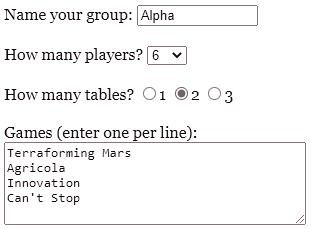
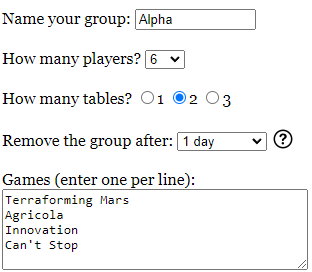
Make session duration configurable

diff --git a/html/ggo/game_ranker.css b/html/ggo/game_ranker.css
@@ -92,3 +92,18 @@ img.demo {
     margin-left: 10px;
     padding: 5px;
 }
+
+.hoverhelp {
+    position: relative;
+}
+.onhoverhelp {
+    visibility: hidden;
+    position: absolute;
+    background-color: #f0f7fb;
+    width: 180px;
+    padding: 5px;
+    z-index: 1;
+}
+.hoverhelp:hover .onhoverhelp {
+    visibility: visible;
+}

diff --git a/html/ggo/utils.php b/html/ggo/utils.php
@@ -1,9 +1,6 @@
 <?
     $MAX_RANK = 100;
     
-    // Do not fetch any sessions older than this. Do allow duplicate names after this interval.
-    $MAX_SESSION_AGE_IN_SECONDS = 30 * 60;
-    
     function getTextLines($text) {
         $result = array();
         $lines = preg_split("/[\r\n]+/", $text, -1, PREG_SPLIT_NO_EMPTY);
@@ -16,9 +13,10 @@
         return $result;
     }
     
-    function insertSession($mysqli, $session_label, $simul, $players, $tables) {
-        $insert_session = $mysqli->prepare("INSERT INTO session(label, simul, players, tables, created) VALUES (?, ?, ?, ?, NOW())");
-        $insert_session->bind_param("siii", $session_label, $simul, $players, $tables);
+    // Pre-calculate expiry for efficiency, but store duration for me to look at the data
+    function insertSession($mysqli, $session_label, $simul, $players, $tables, $groupMinutes) {
+        $insert_session = $mysqli->prepare("INSERT INTO session(label, simul, players, tables, created, duration, expires) VALUES (?, ?, ?, ?, NOW(), ?, DATE_ADD(NOW(), INTERVAL ? MINUTE))");
+        $insert_session->bind_param("siiiii", $session_label, $simul, $players, $tables, $groupMinutes, $groupMinutes);
         $insert_session->execute();
         $insert_session->close();
     }
@@ -123,9 +121,8 @@
     }
     
     function fetchSessionId($mysqli, $session_label) {
-        $maxAge = $GLOBALS['MAX_SESSION_AGE_IN_SECONDS'];
         $query_session = $mysqli->prepare("SELECT id FROM session" .
-            " WHERE label=? AND TIME_TO_SEC(TIMEDIFF(now(), created)) < $maxAge" .
+            " WHERE label=? AND expires > NOW()" .
             " ORDER BY created DESC LIMIT 1");
         $query_session->bind_param("s", $session_label);
         $query_session->execute();

diff --git a/html/ggo/create.php b/html/ggo/create.php
@@ -47,6 +47,20 @@ $maxPlayers = 15;
     </div>
     <br />
     <div>
+        <label for="groupMinutes">Remove the group after:</label>
+        <select id="groupMinutes" name="groupMinutes" class="groupMinutes">
+            <option value="30">30 minutes</option>
+            <option value="1440" selected="selected">1 day</option>
+            <option value="7200">5 days</option>
+            <option value="14400">10 days</option>
+        </select>
+        <span class="hoverhelp">
+          <img src="images/help.png" valign="bottom" />
+          <span class="onhoverhelp">Choose a longer time for advance planning, or a shorter time to allow the group name to be reused.</span>
+        </span>
+    </div>
+    <br />
+    <div>
         <label for="games">Games (enter one per line):</label> <br />
         <textarea id="games" name="games" rows="10" cols="40"></textarea>
     </div>

diff --git a/html/ggo/join.php b/html/ggo/join.php
@@ -16,9 +16,11 @@ if (isset($_POST['session']) && !fetchSessionId($mysqli, $_POST['session'])) {
     
     $playerCount = intval($_POST['playerCount']);
     $tableCount = intval($_POST['tableCount']);
+    $groupMinutes = intval($_POST['groupMinutes']);
+    $groupMinutes = $groupMinutes > 14400 ? 14400 : ($groupMinutes < 5 ? 5 : $groupMinutes);
     $games = getTextLines($_POST['games']);
     
-    insertSession($mysqli, $_POST['session'], 1, $playerCount, $tableCount);
+    insertSession($mysqli, $_POST['session'], 1, $playerCount, $tableCount, $groupMinutes);
     insertGames($mysqli, $games);
     
     $session_html = htmlspecialchars($_POST['session']);

diff --git a/html/ggo/rank.php b/html/ggo/rank.php
@@ -33,7 +33,7 @@ if ($simul) {
         $current_player = $players[0];
         $next_player = $players[1]; // for testing
         
-        insertSession($mysqli, $session_label, 0, count($players), $tableCount);
+        insertSession($mysqli, $session_label, 0, count($players), $tableCount, 30);
         insertPlayers($mysqli, $players);
         insertGames($mysqli, $games);
 
